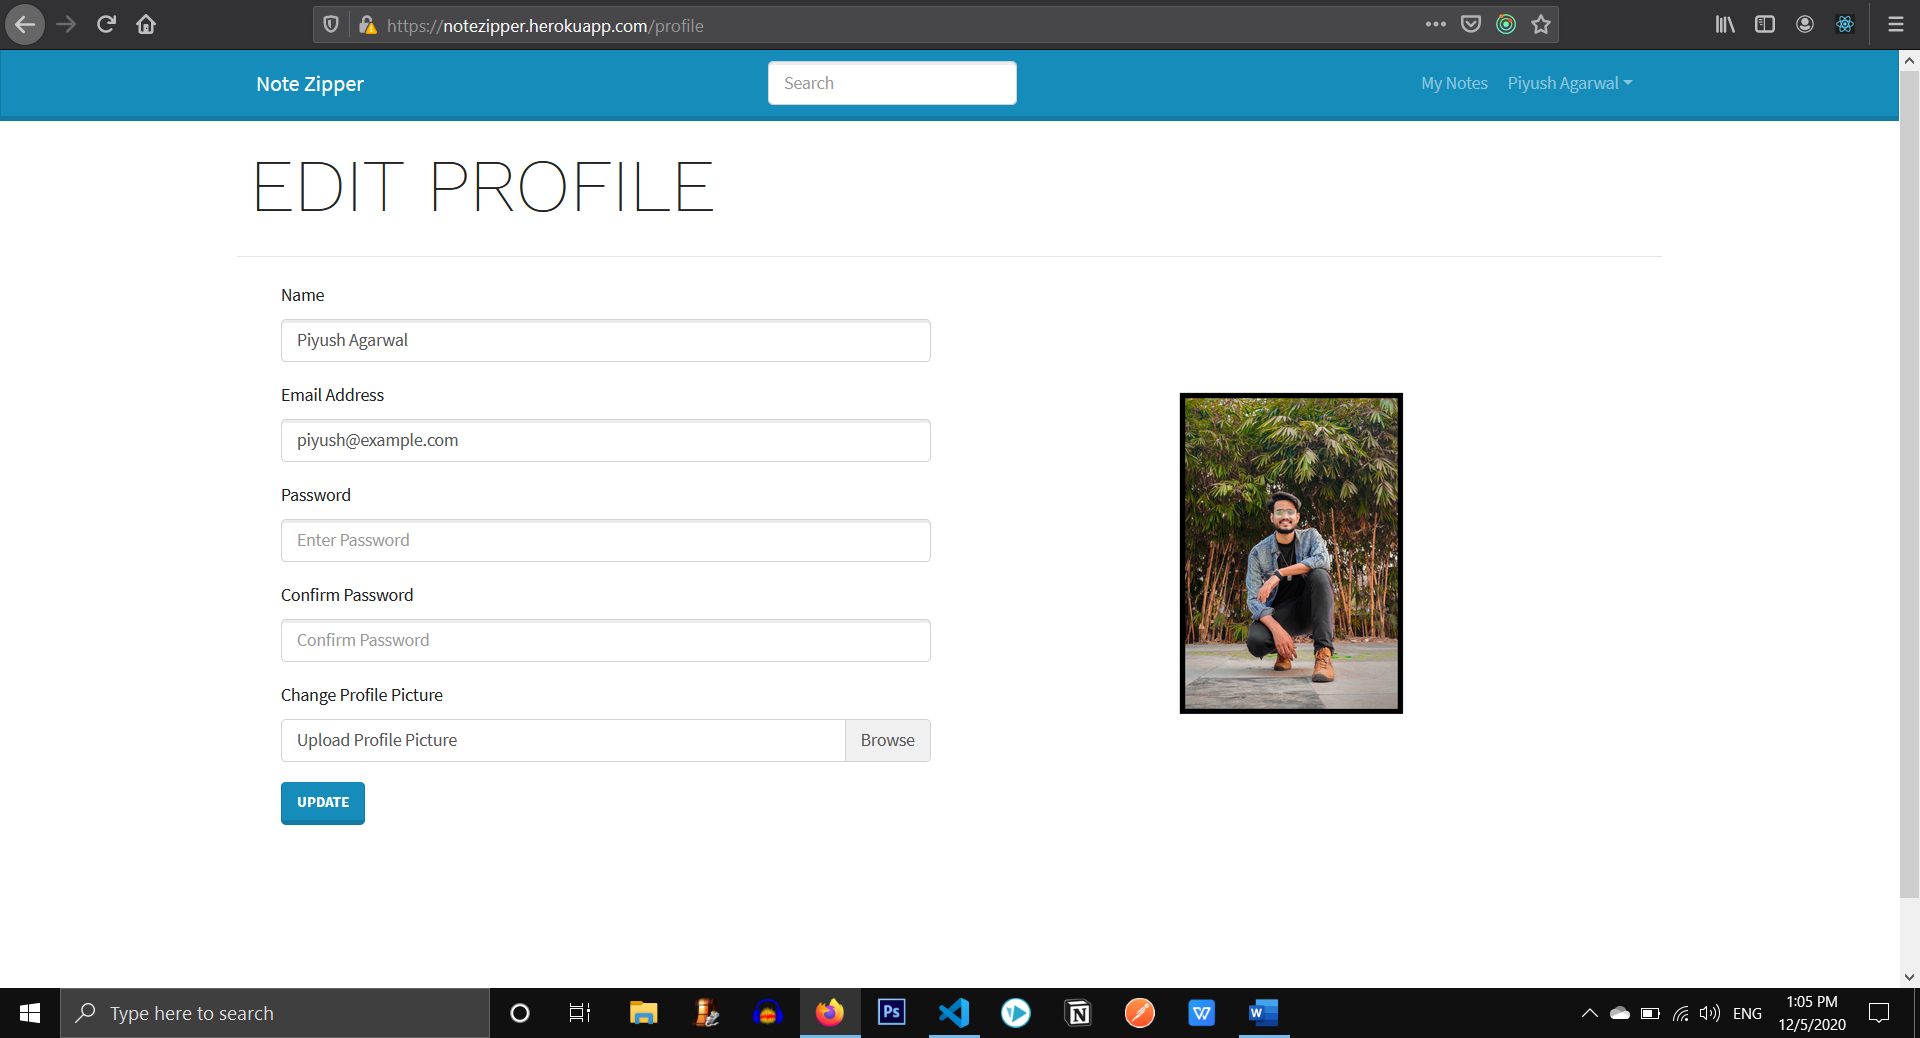
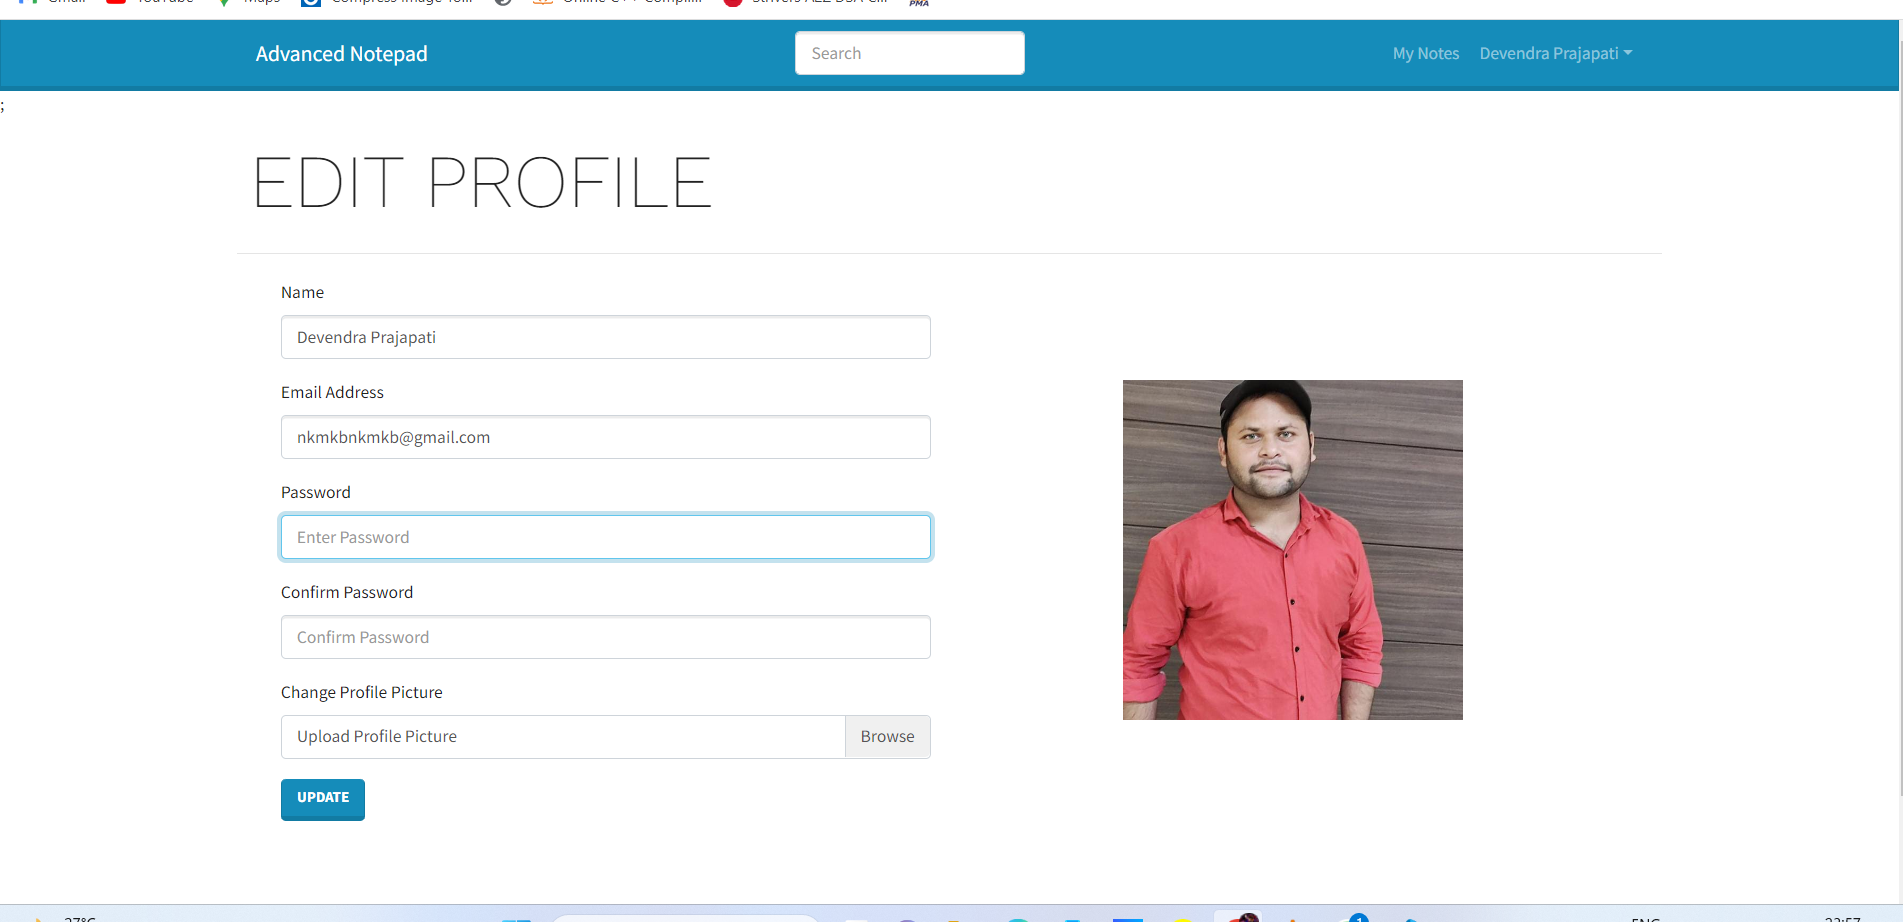
first commit

diff --git a/frontend/src/components/Header.js b/frontend/src/components/Header.js
@@ -8,7 +8,7 @@ import {
   NavDropdown,
 } from "react-bootstrap";
 import { useDispatch, useSelector } from "react-redux";
-import {} from "react-router-dom";
+import { } from "react-router-dom";
 import { logout } from "../actions/userActions";
 
 function Header({ setSearch }) {
@@ -21,12 +21,12 @@ function Header({ setSearch }) {
     dispatch(logout());
   };
 
-  useEffect(() => {}, [userInfo]);
+  useEffect(() => { }, [userInfo]);
 
   return (
     <Navbar collapseOnSelect expand="lg" bg="primary" variant="dark">
       <Container>
-        <Navbar.Brand href="/">Note Zipper</Navbar.Brand>
+        <Navbar.Brand href="/">Advanced Notepad</Navbar.Brand>
 
         <Navbar.Toggle aria-controls="responsive-navbar-nav" />
         <Navbar.Collapse id="responsive-navbar-nav">

diff --git a/frontend/src/screens/LandingPage/LandingStyles.css b/frontend/src/screens/LandingPage/LandingStyles.css
@@ -1,14 +1,17 @@
 .title {
-  font-size: 95px;
+  font-size: 50px;
 }
+
 .subtitle {
   font-size: 25px;
   padding-top: 10px;
 }
+
 .intro-text {
   width: 100%;
   text-align: center;
 }
+
 .main {
   min-height: 93vh;
   display: flex;
@@ -17,6 +20,7 @@
   background-position: center;
   background-size: cover;
 }
+
 .buttonContainer {
   margin-top: 50px;
   display: flex;
@@ -32,6 +36,7 @@
   .buttonContainer {
     padding: 0 200px;
   }
+
   .title {
     padding: 0 100px;
   }
@@ -41,6 +46,7 @@
   .title {
     font-size: 60px;
   }
+
   .landingbutton {
     width: 150px;
     height: 50px;

diff --git a/frontend/src/screens/LandingPage/LandingPage.js b/frontend/src/screens/LandingPage/LandingPage.js
@@ -20,7 +20,7 @@ function LandingPage({ history }) {
         <Row>
           <div className="intro-text">
             <div>
-              <h1 className="title">Welcome to Note Zipper</h1>
+              <h1 className="title">Welcome to Advanced Notepad</h1>
               <p className="subtitle">One Safe place for all your notes.</p>
             </div>
             <div className="buttonContainer">

diff --git a/frontend/src/actions/notesActions.js b/frontend/src/actions/notesActions.js
@@ -31,7 +31,7 @@ export const listNotes = () => async (dispatch, getState) => {
     };
 
     const { data } = await axios.get(`/api/notes`, config);
-
+    
     dispatch({
       type: NOTES_LIST_SUCCESS,
       payload: data,
